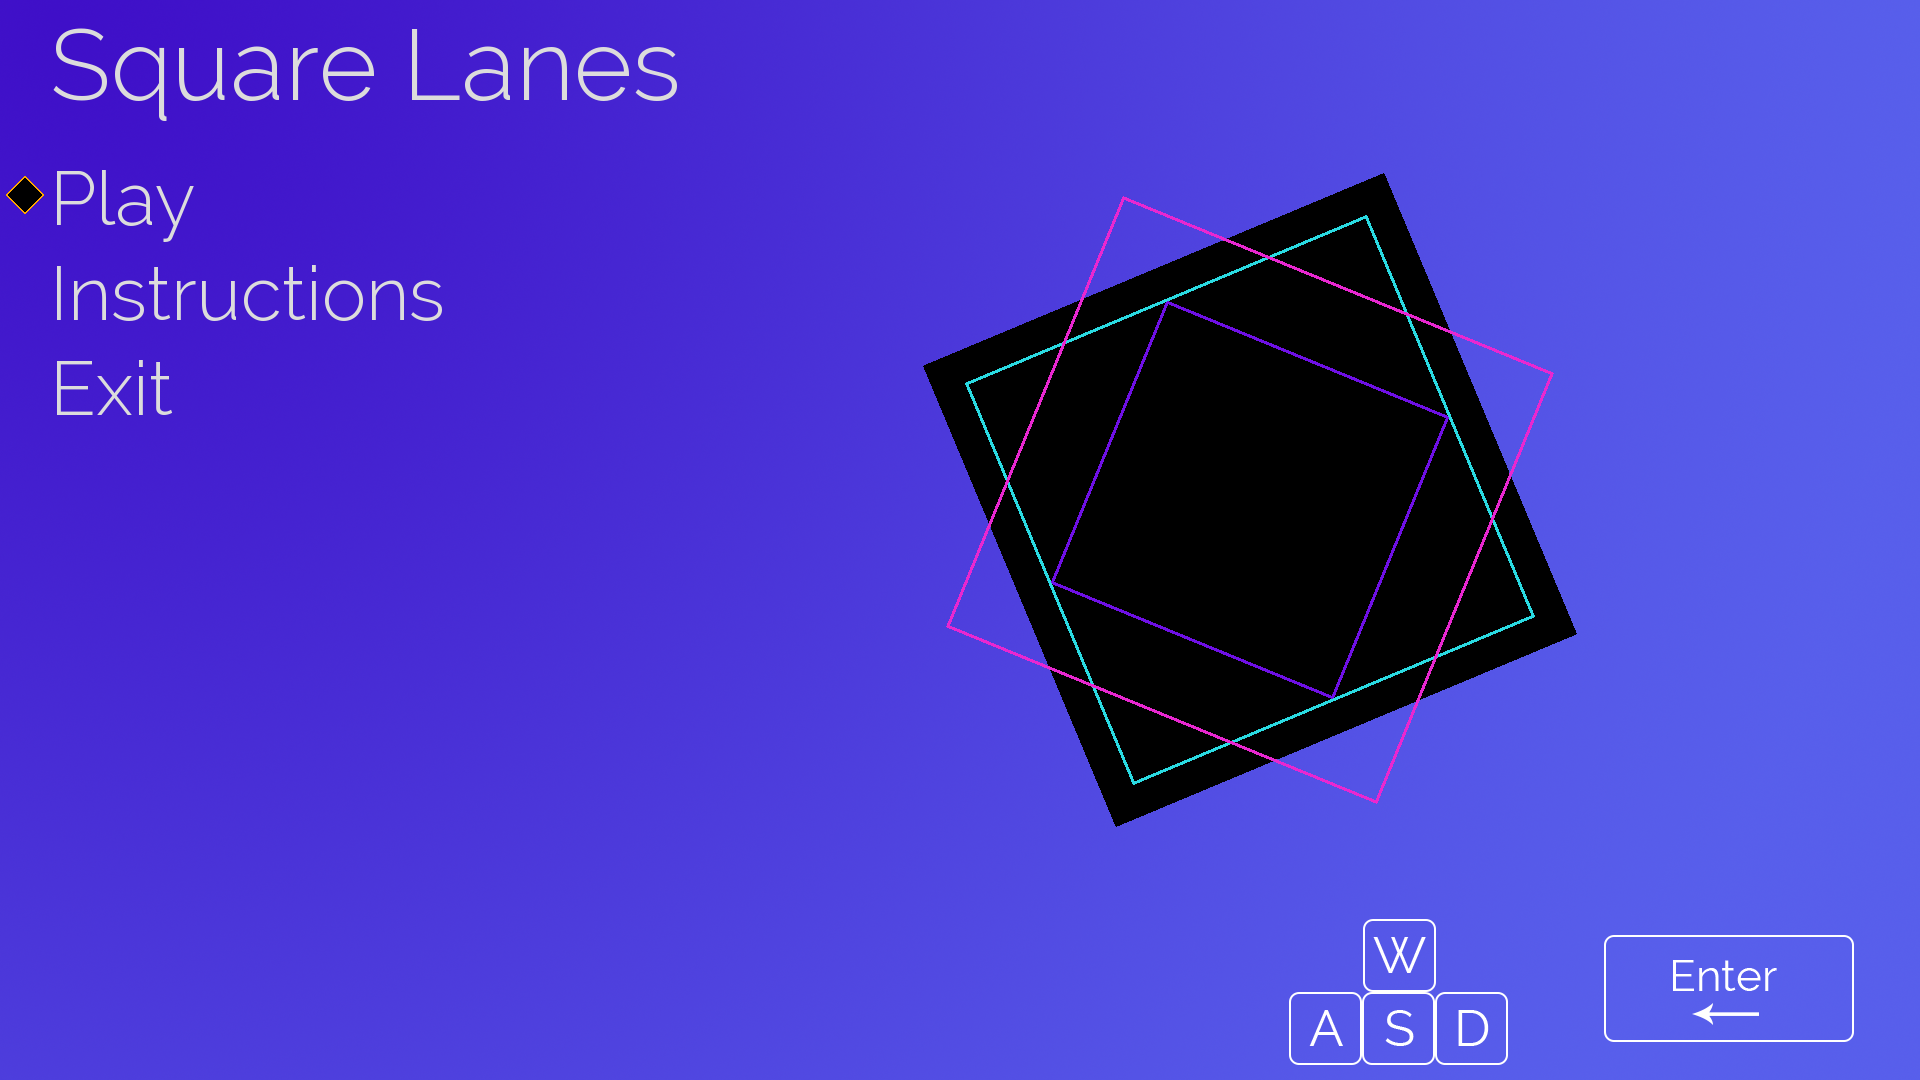
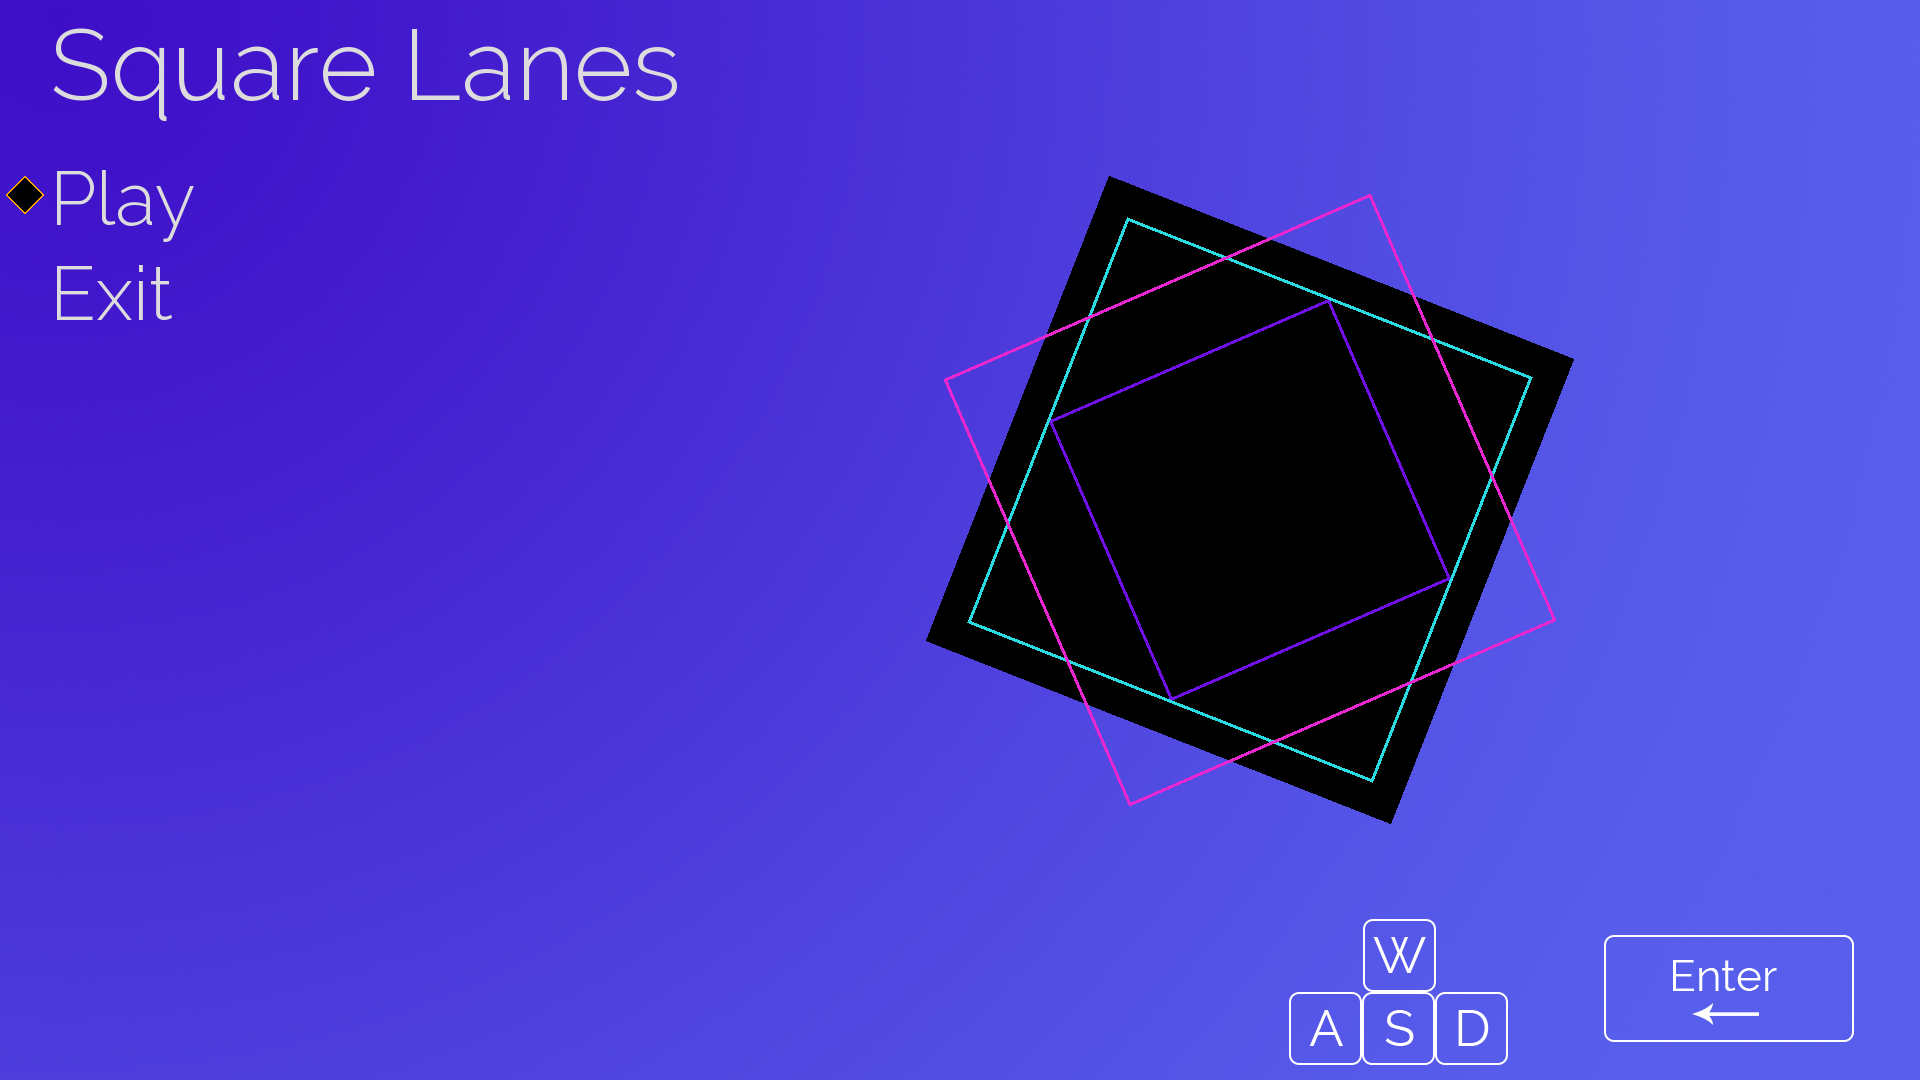
Finish game

diff --git a/PA9/SquareLanes.cpp b/PA9/SquareLanes.cpp
@@ -1,5 +1,5 @@
 /*
-    Programmer: Alex Carbajal
+    Programmers: Alex Carbajal, Francesco Rachetto, Brendan Nelson
     Class: CptS 122, Spring 2021; Lab Section 03
     Programming Assignment: Programming Assignment 9
     Date: April 22, 2021
@@ -84,6 +84,16 @@ float SquareLanes::getRowSpawnSpeed(void)
 sf::Text& SquareLanes::getGameOver(void)
 {
     return gameOver;
+}
+
+sf::Text& SquareLanes::getRestart(void)
+{
+    return restart;
+}
+
+sf::Text& SquareLanes::getBackToMenu(void)
+{
+    return backToMenu;
 }
 
 sf::Sprite& SquareLanes::getGameOverBackground(void)
@@ -436,10 +446,38 @@ void SquareLanes::loadGameOver(void)
     gameOver.setOrigin(sf::Vector2f(gameOver.getLocalBounds().left + gameOver.getLocalBounds().width / 2.0f,
                        gameOver.getLocalBounds().top + gameOver.getLocalBounds().height / 2.0f));
 
+    // Restart
+    /*restart.setFont(fontRaleway);
+    restart.setString("Restart");
+    restart.setCharacterSize(100);
+    restart.setFillColor(sf::Color::White);
+    restart.setOrigin(sf::Vector2f(restart.getLocalBounds().left + restart.getLocalBounds().width / 2.0f,
+                                   restart.getLocalBounds().top + restart.getLocalBounds().height / 2.0f));*/
+
+    // Menu
+    /*backToMenu.setFont(fontRaleway);
+    backToMenu.setString("Menu");
+    backToMenu.setCharacterSize(100);
+    backToMenu.setFillColor(sf::Color::White);
+    backToMenu.setOrigin(sf::Vector2f(backToMenu.getLocalBounds().left + backToMenu.getLocalBounds().width / 2.0f,
+                                      backToMenu.getLocalBounds().top + backToMenu.getLocalBounds().height / 2.0f));*/
+
     // Setting game speed to 0
     gameSpeed = 0.f;
 }
 
+/*
+    Function: stopMusic()
+    Author: Alex Carbajal
+    Date Created: 04/29/2021
+    Date Last Modified: 04/29/2021
+    Description: Stops the music from playing in the game.
+    Input parameters: N/A
+    Output parameters: N/A
+    Returns: N/A
+    Preconditions: None
+    Postconditions: The music in the game stops playing.
+*/
 void SquareLanes::stopMusic(void)
 {
     music.setLoop(false);

diff --git a/PA9/Game.cpp b/PA9/Game.cpp
@@ -1,5 +1,5 @@
 /*
-    Programmer: Alex Carbajal
+    Programmers: Alex Carbajal, Francesco Rachetto, Brendan Nelson
     Class: CptS 122, Spring 2021; Lab Section 03
     Programming Assignment: Programming Assignment 9
     Date: April 22, 2021
@@ -379,11 +379,11 @@ void Game::selectMainMenuOption(void)
                 isMenu = false;
                 isPlay = true;
                 break;
-            case 2: // Instructions
-                changingMenu = true;
-                menuName = "instructions";
-                break;
-            case 3: // Exit
+            //case 2: // Instructions
+            //    changingMenu = true;
+            //    menuName = "instructions";
+            //    break;
+            case 2: // Exit
                 gameWindow.close();
                 break;
             default:
@@ -693,8 +693,20 @@ void Game::checkGameOver(void)
     {
         isGameOver = true;
         squareLanes.loadGameOver();
+
+        // Game Over
         squareLanes.getGameOver().setPosition(sf::Vector2f(gameWindow.getSize().x / 2.f,
                                               gameWindow.getSize().y / 2.f));
+
+        //float xPositionOptions = 250.f;
+
+        // Restart
+        /*squareLanes.getRestart().setPosition(sf::Vector2f(gameWindow.getSize().x / 2.f + xPositionOptions,
+                                             gameWindow.getSize().y / 2.f + 130.f));*/
+
+        // Menu
+        /*squareLanes.getBackToMenu().setPosition(sf::Vector2f(gameWindow.getSize().x / 2.f - xPositionOptions,
+                                                             gameWindow.getSize().y / 2.f + 130.f));*/
     }
 }
 
@@ -714,4 +726,6 @@ void Game::drawGameOver(void)
 {
     gameWindow.draw(squareLanes.getGameOverBackground());
     gameWindow.draw(squareLanes.getGameOver());
+    //gameWindow.draw(squareLanes.getRestart());
+    //gameWindow.draw(squareLanes.getBackToMenu());
 }

diff --git a/PA9/SquareLanes.h b/PA9/SquareLanes.h
@@ -1,5 +1,5 @@
 /*
-    Programmer: Alex Carbajal
+    Programmers: Alex Carbajal, Francesco Rachetto, Brendan Nelson
     Class: CptS 122, Spring 2021; Lab Section 03
     Programming Assignment: Programming Assignment 9
     Date: April 22, 2021
@@ -38,6 +38,8 @@ public:
     sf::Clock& getGameClock(void);
     float getRowSpawnSpeed(void);
     sf::Text& getGameOver(void);
+    sf::Text& getRestart(void);
+    sf::Text& getBackToMenu(void);
     sf::Sprite& getGameOverBackground(void);
 
     // Setters
@@ -103,6 +105,18 @@ public:
 
     void loadGameOver(void);
 
+    /*
+        Function: stopMusic()
+        Author: Alex Carbajal
+        Date Created: 04/29/2021
+        Date Last Modified: 04/29/2021
+        Description: Stops the music from playing in the game.
+        Input parameters: N/A
+        Output parameters: N/A
+        Returns: N/A
+        Preconditions: None
+        Postconditions: The music in the game stops playing.
+    */
     void stopMusic(void);
 private:
     Player player;
@@ -126,6 +140,8 @@ private:
     sf::Clock gameClock; // Measures the time in the game
     sf::Time currentTime; // The current time in the game clock
     sf::Text gameOver;
+    sf::Text restart;
+    sf::Text backToMenu;
     sf::Texture gameOverBackgroundTexture;
     sf::Sprite gameOverBackground;
 

diff --git a/PA9/MainMenu.cpp b/PA9/MainMenu.cpp
@@ -1,5 +1,5 @@
 /*
-    Programmer: Alex Carbajal
+    Programmers: Alex Carbajal, Francesco Rachetto, Brendan Nelson
     Class: CptS 122, Spring 2021; Lab Section 03
     Programming Assignment: Programming Assignment 9
     Date: April 22, 2021
@@ -32,7 +32,7 @@ void MainMenu::loadText(void)
 {
     makeGameTitle();
     makePlayText();
-    makeInstructionsText();
+    //makeInstructionsText();
     makeExitText();
 }
 
@@ -173,7 +173,7 @@ void MainMenu::makeExitText(void)
     exit.setString("Exit");
     exit.setCharacterSize(75);
     exit.setFillColor(sf::Color(220, 220, 220));
-    exit.setPosition(sf::Vector2f(50.0f, 340.0f));
+    exit.setPosition(sf::Vector2f(50.0f, 245.0f));
 
     // Adding the text to the list of texts
     menuText.push_back(exit);
@@ -185,7 +185,7 @@ void MainMenu::loadMarker(void)
 
     // Marker positions
     markerPosition = minMarkerPosition = 1;
-    maxMarkerPosition = 3;
+    maxMarkerPosition = 2;
 }
 
 /*

diff --git a/PA9/Instructions.cpp b/PA9/Instructions.cpp
@@ -1,9 +1,9 @@
 /*
-	Programmer: Alex Carbajal
-	Class: CptS 122, Spring 2021; Lab Section 03
-	Programming Assignment: Programming Assignment 9
-	Date: April 22, 2021
-	Description: Square Lanes
+    Programmers: Alex Carbajal, Francesco Rachetto, Brendan Nelson
+    Class: CptS 122, Spring 2021; Lab Section 03
+    Programming Assignment: Programming Assignment 9
+    Date: April 22, 2021
+    Description: Square Lanes
 */
 
 #include "Instructions.h"

diff --git a/PA9/Instructions.h b/PA9/Instructions.h
@@ -1,9 +1,9 @@
 /*
-	Programmer: Alex Carbajal
-	Class: CptS 122, Spring 2021; Lab Section 03
-	Programming Assignment: Programming Assignment 9
-	Date: April 22, 2021
-	Description: Square Lanes
+    Programmers: Alex Carbajal, Francesco Rachetto, Brendan Nelson
+    Class: CptS 122, Spring 2021; Lab Section 03
+    Programming Assignment: Programming Assignment 9
+    Date: April 22, 2021
+    Description: Square Lanes
 */
 
 #pragma once

diff --git a/PA9/Coin.h b/PA9/Coin.h
@@ -1,5 +1,5 @@
 /*
-    Programmer: Alex Carbajal
+    Programmers: Alex Carbajal, Francesco Rachetto, Brendan Nelson
     Class: CptS 122, Spring 2021; Lab Section 03
     Programming Assignment: Programming Assignment 9
     Date: April 22, 2021

diff --git a/PA9/Game.h b/PA9/Game.h
@@ -1,5 +1,5 @@
 /*
-    Programmer: Alex Carbajal
+    Programmers: Alex Carbajal, Francesco Rachetto, Brendan Nelson
     Class: CptS 122, Spring 2021; Lab Section 03
     Programming Assignment: Programming Assignment 9
     Date: April 22, 2021

diff --git a/PA9/Menu.cpp b/PA9/Menu.cpp
@@ -1,5 +1,5 @@
 /*
-    Programmer: Alex Carbajal
+    Programmers: Alex Carbajal, Francesco Rachetto, Brendan Nelson
     Class: CptS 122, Spring 2021; Lab Section 03
     Programming Assignment: Programming Assignment 9
     Date: April 22, 2021

diff --git a/PA9/Menu.h b/PA9/Menu.h
@@ -1,5 +1,5 @@
 /*
-    Programmer: Alex Carbajal
+    Programmers: Alex Carbajal, Francesco Rachetto, Brendan Nelson
     Class: CptS 122, Spring 2021; Lab Section 03
     Programming Assignment: Programming Assignment 9
     Date: April 22, 2021

diff --git a/PA9/Player.cpp b/PA9/Player.cpp
@@ -1,5 +1,5 @@
 /*
-    Programmer: Alex Carbajal
+    Programmers: Alex Carbajal, Francesco Rachetto, Brendan Nelson
     Class: CptS 122, Spring 2021; Lab Section 03
     Programming Assignment: Programming Assignment 9
     Date: April 22, 2021

diff --git a/PA9/Player.h b/PA9/Player.h
@@ -1,5 +1,5 @@
 /*
-    Programmer: Alex Carbajal
+    Programmers: Alex Carbajal, Francesco Rachetto, Brendan Nelson
     Class: CptS 122, Spring 2021; Lab Section 03
     Programming Assignment: Programming Assignment 9
     Date: April 22, 2021
